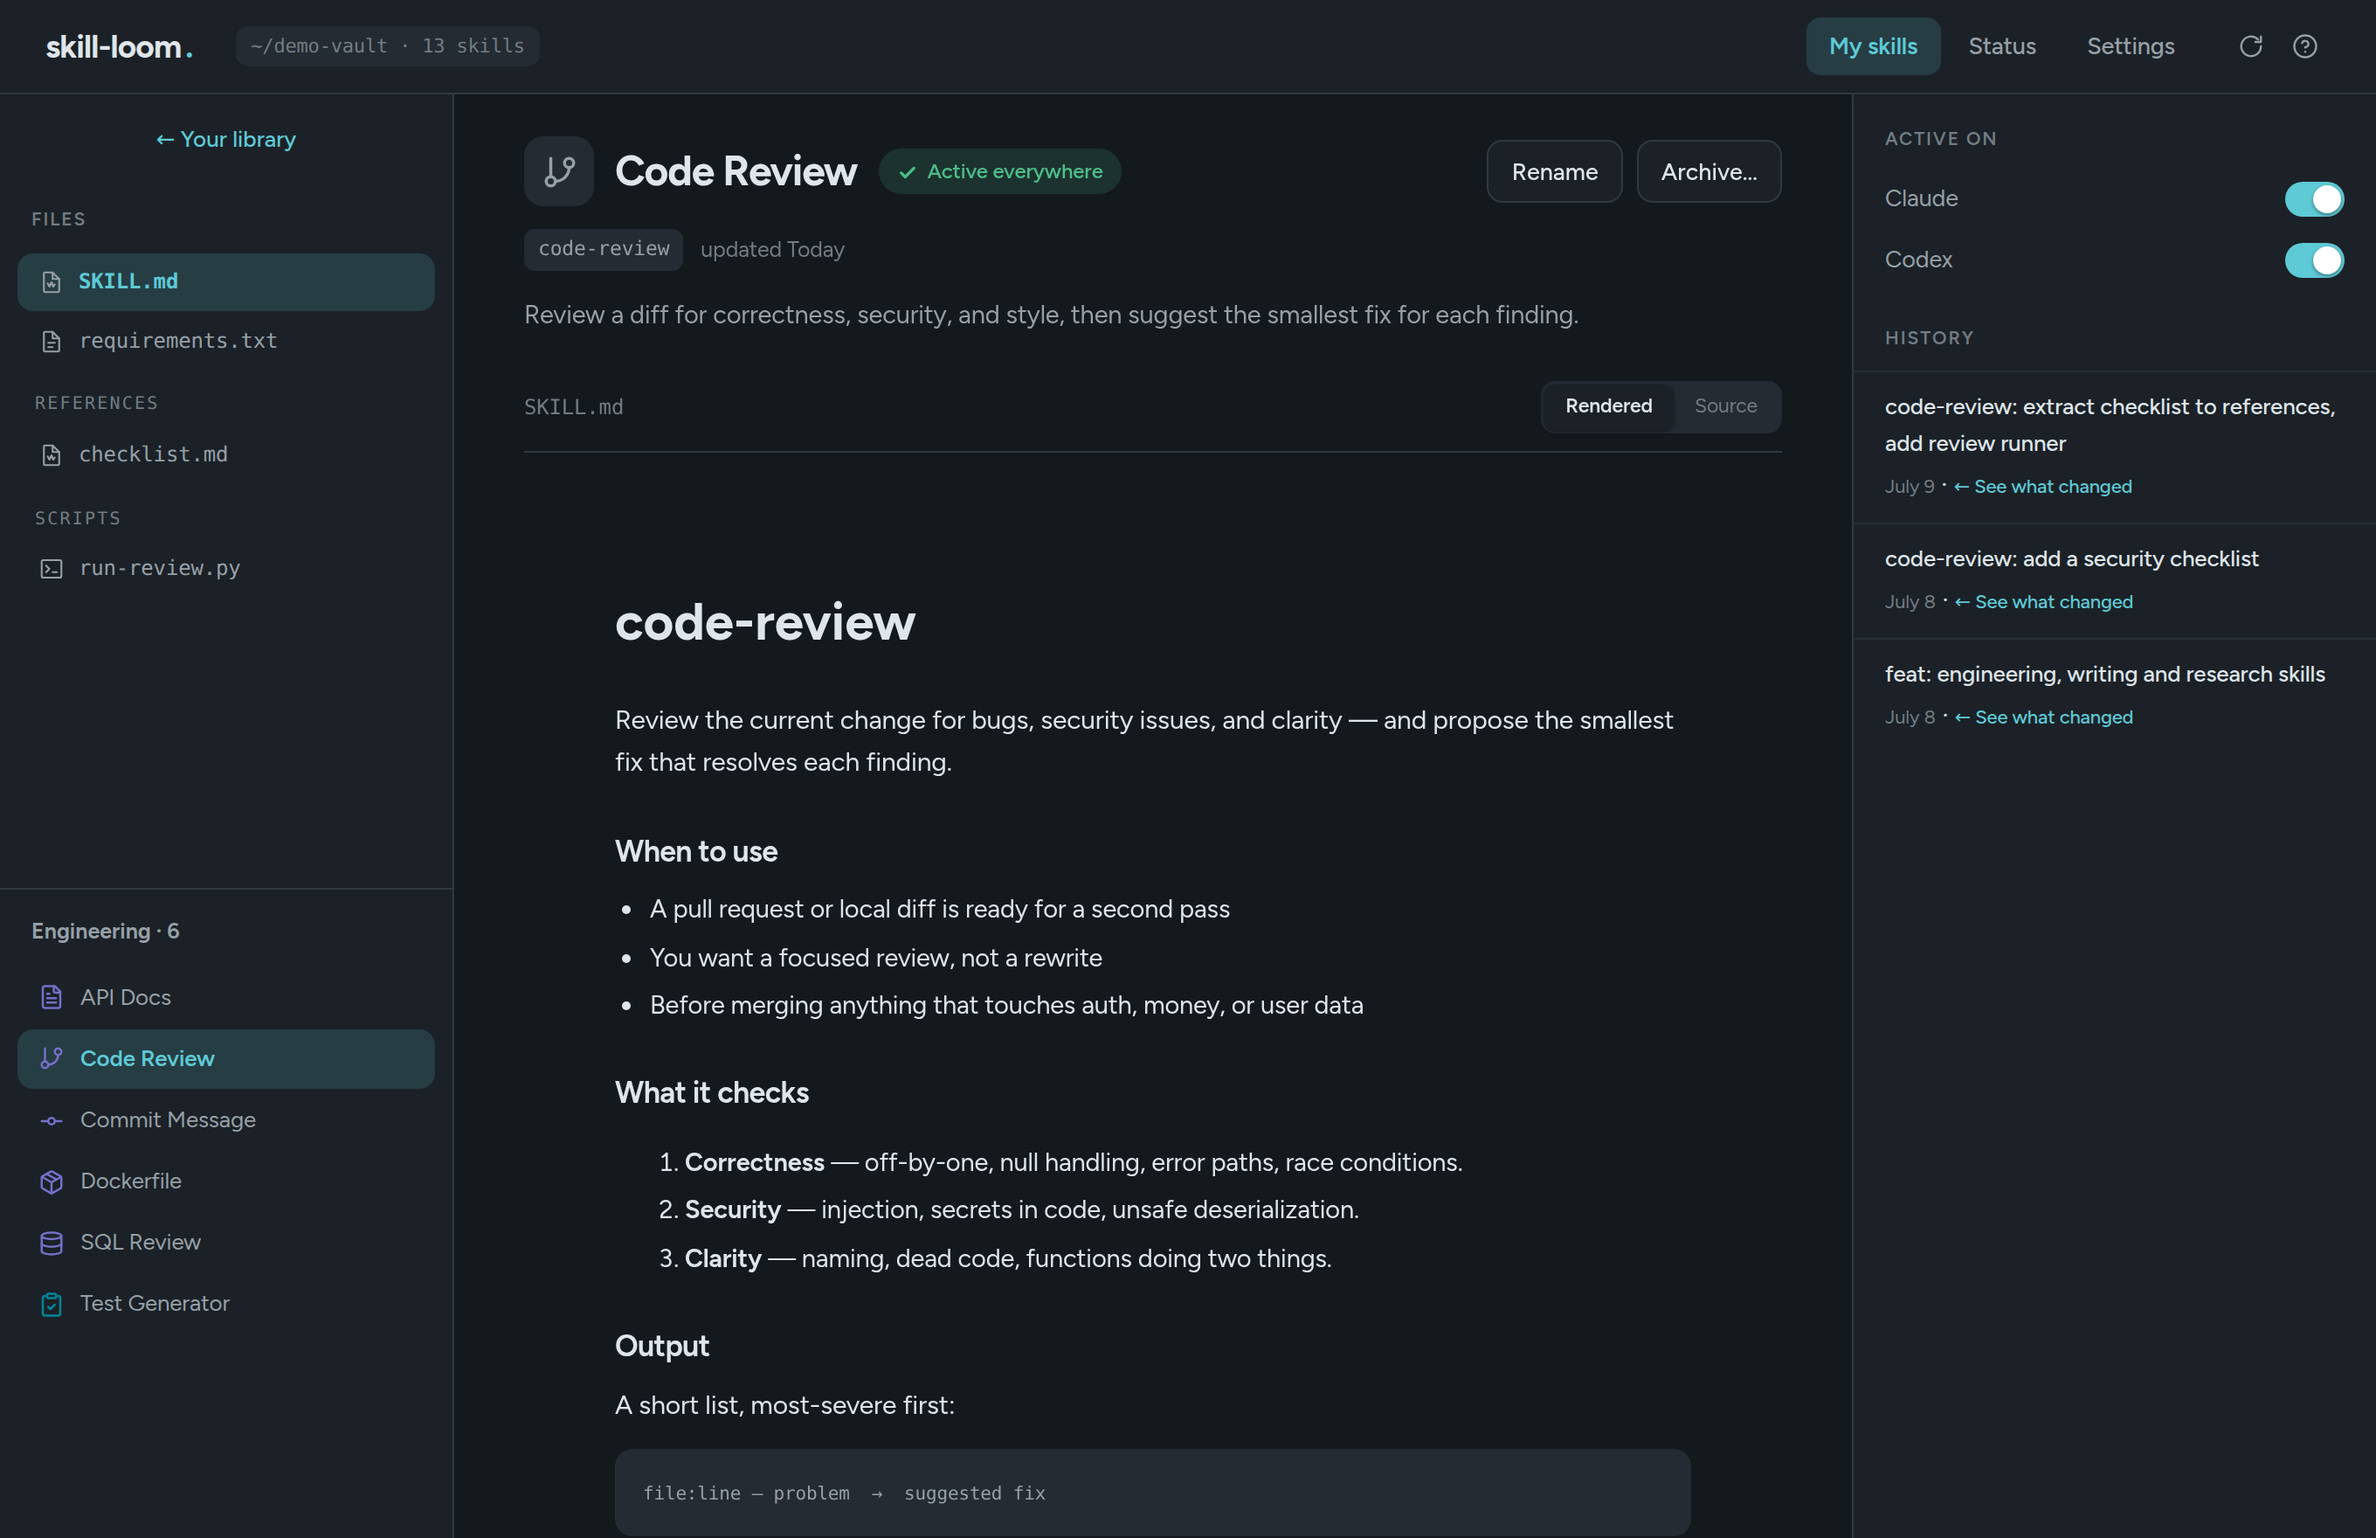
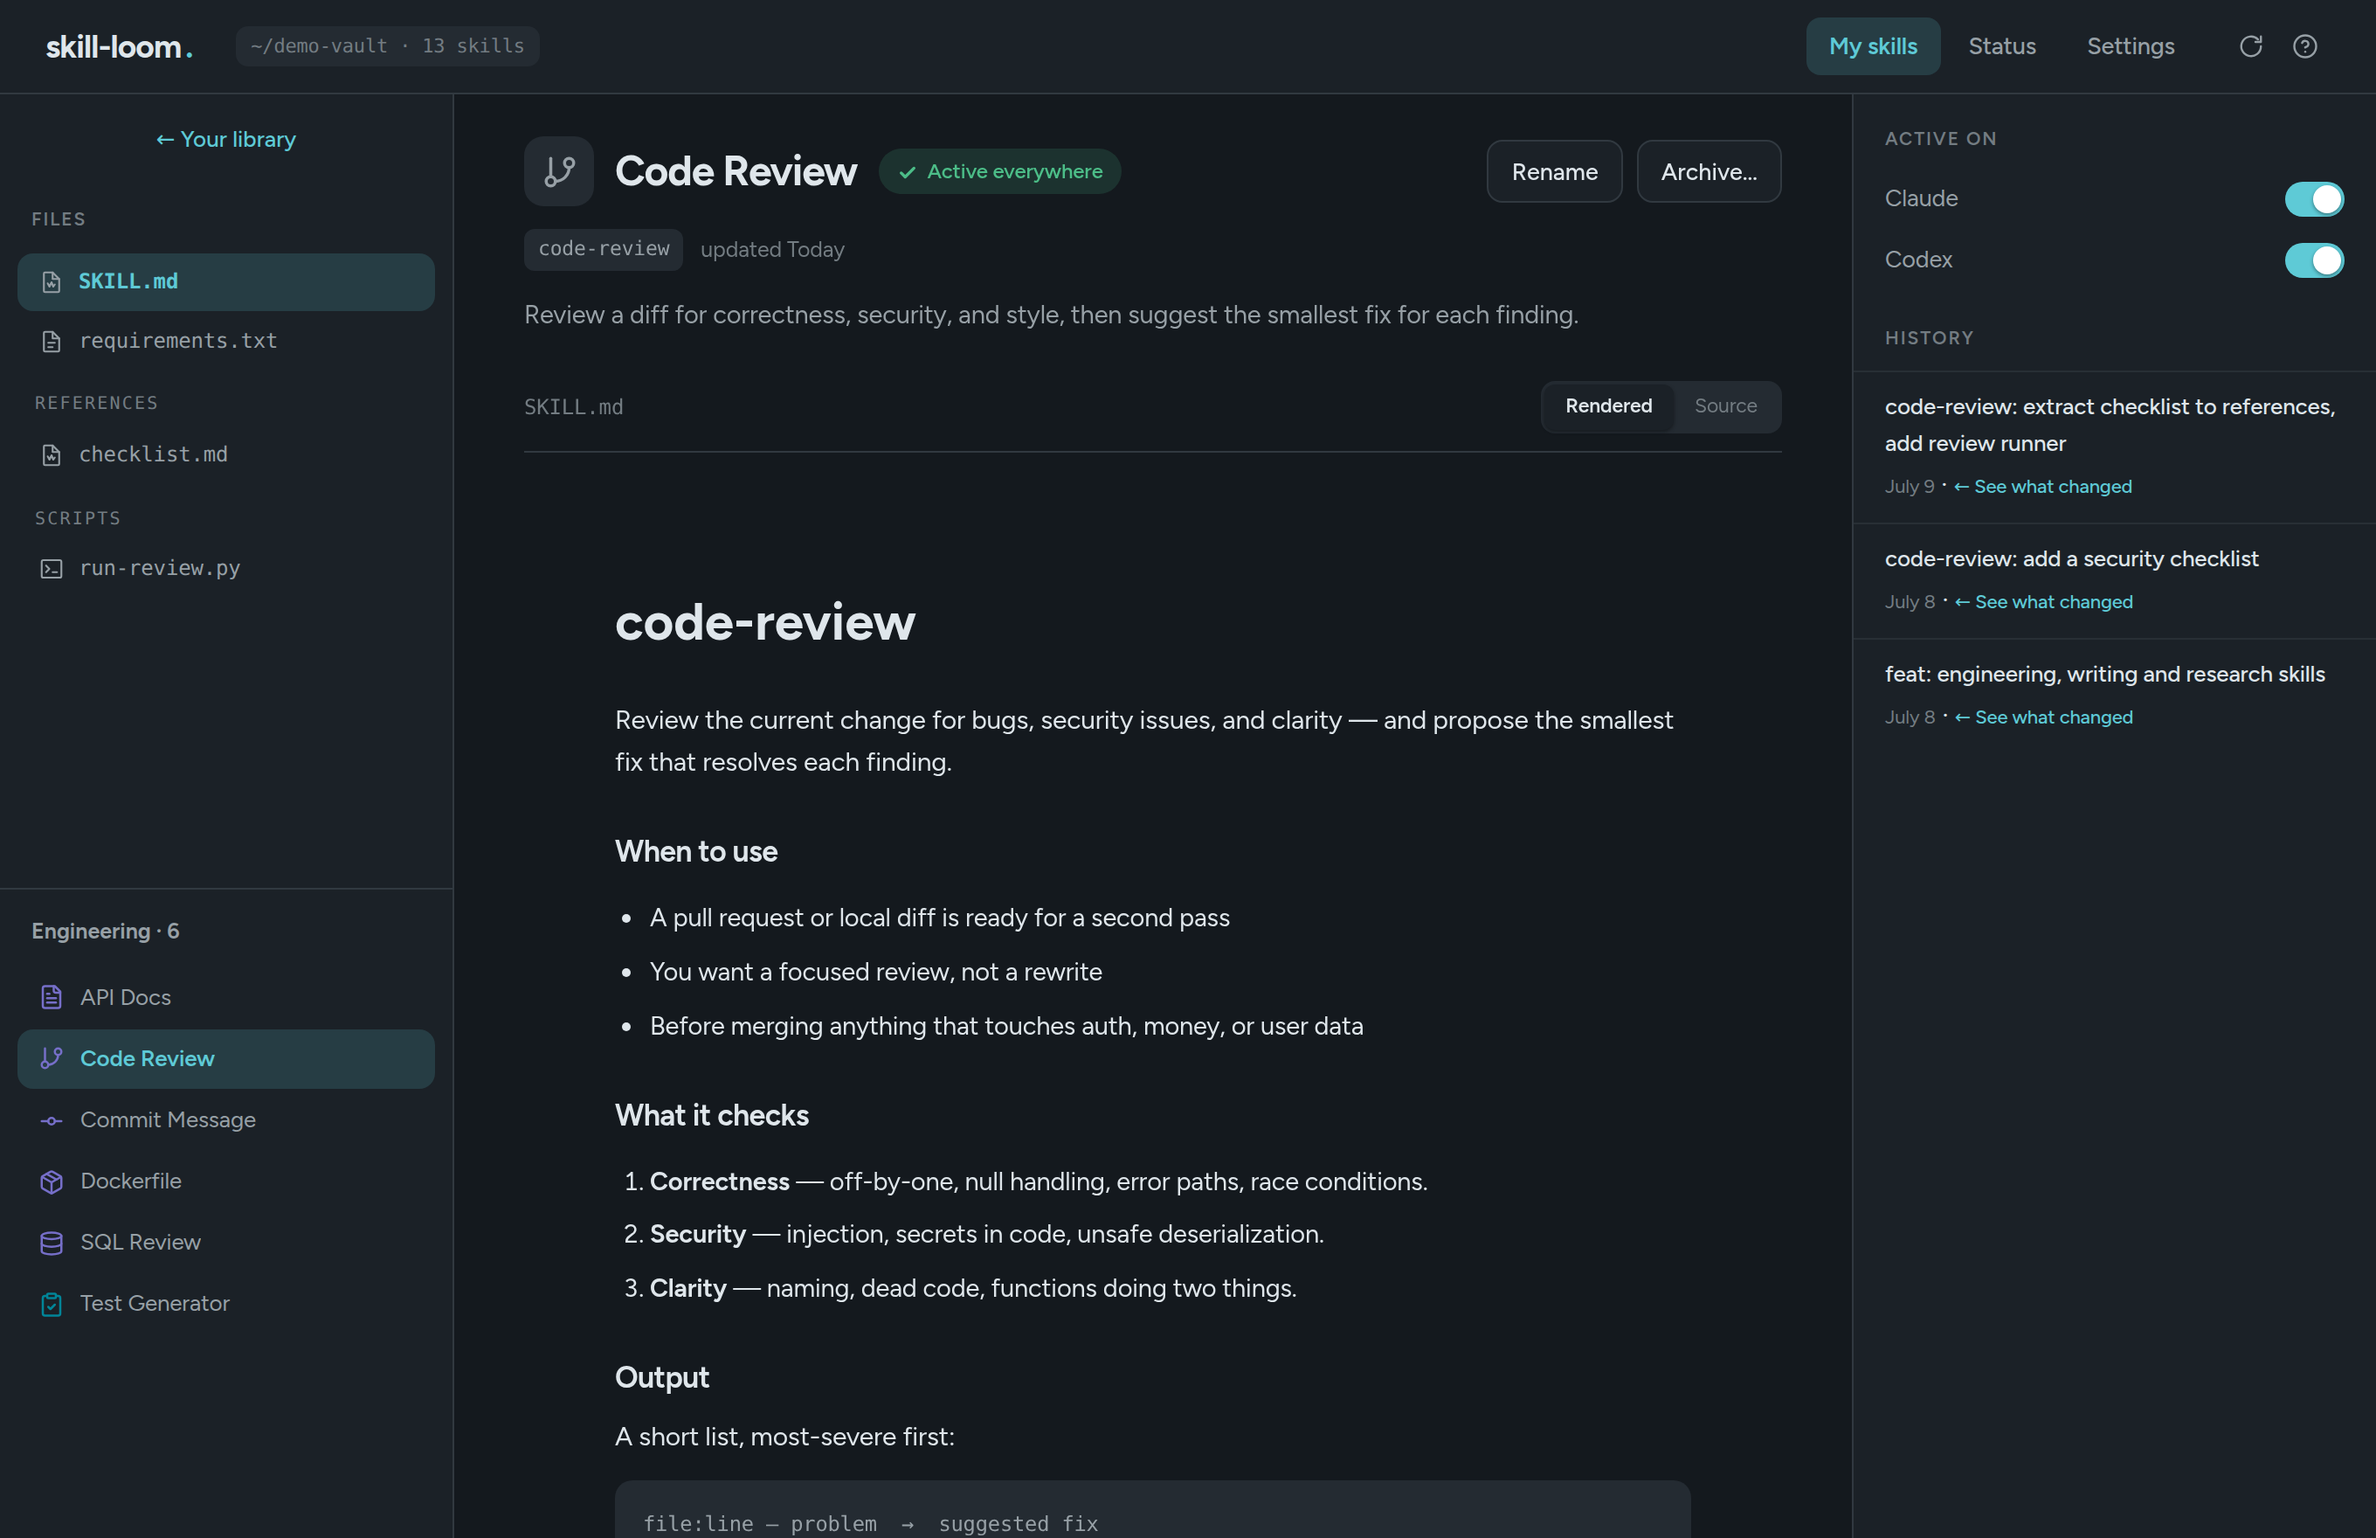
feat: markdown viewer polish
Refine the rendered skill viewer: align ordered lists and blockquotes with
bullet lists, larger inline code, real task-list checkboxes; unify prose, code,
tables and dividers to one content measure with more list/divider air; and
centre the document as a capped reading column with balanced margins. Verified
in light and dark.

Changed region(s): [[0.25, 0.5938, 0.625, 0.8438], [0.25, 0.875, 0.4062, 0.9375], [0.2812, 0.9688, 0.4375, 1.0]]

diff --git a/src/ui.html b/src/ui.html
@@ -722,6 +722,10 @@
         padding: 30px 52px 60px;
         overflow-y: auto;
         min-width: 0;
+        /* One shared content measure so prose, code blocks, tables and dividers
+           all share the same right edge. Fills the document column (no dead
+           space); tune this single value to cap the reading width if desired. */
+        --measure: 100%;
       }
       /* Refined scrollbars, consistent across every scroll surface (window +
          detail columns + status panes): subtle at rest (never disappears when
@@ -931,7 +935,7 @@
         font-size: 16.5px;
         line-height: 1.6;
         margin: 0 0 8px;
-        max-width: 74ch;
+        max-width: var(--measure);
       }
       .md h2 {
         font-size: 17px;
@@ -948,7 +952,7 @@
         font-size: 15px;
         line-height: 1.64;
         margin: 0.5em 0;
-        max-width: 74ch;
+        max-width: var(--measure);
       }
       .md strong {
         font-weight: 650;
@@ -958,7 +962,7 @@
       }
       .md code {
         font-family: var(--mono);
-        font-size: 0.84em;
+        font-size: 0.95em;
         background: var(--panel);
         padding: 1px 6px;
         border-radius: 5px;
@@ -972,7 +976,7 @@
         overflow-x: auto;
         line-height: 1.7;
         color: var(--dim);
-        max-width: 900px;
+        max-width: var(--measure);
       }
       .md pre code {
         background: none;
@@ -981,7 +985,7 @@
       .md table {
         border-collapse: collapse;
         width: 100%;
-        max-width: 980px;
+        max-width: var(--measure);
         margin: 1.1em 0;
         font-size: 13.5px;
       }
@@ -1002,14 +1006,61 @@
       .md td code {
         font-size: 11.5px;
       }
-      .md ul {
+      .md ul,
+      .md ol {
         padding-left: 20px;
-        margin: 0.5em 0;
-        max-width: 74ch;
+        margin: 0.9em 0;
+        max-width: var(--measure);
       }
       .md li {
         font-size: 14.5px;
-        margin: 0.35em 0;
+        line-height: 1.62;
+        margin: 0.5em 0;
+      }
+      /* Blockquotes align to the same indent as lists (no side-stripe border),
+         set apart by muted colour only. */
+      .md blockquote {
+        margin: 0.6em 0;
+        padding-left: 20px;
+        max-width: var(--measure);
+        color: var(--dim);
+      }
+      /* Divider: matches the shared measure, with generous vertical breathing room */
+      .md hr {
+        max-width: var(--measure);
+        margin: 2em 0;
+        border: 0;
+        border-top: 1px solid var(--line);
+      }
+      /* Task-list items: real checkbox in the list gutter instead of literal [ ] */
+      .md li.task {
+        list-style: none;
+        position: relative;
+      }
+      .md li.task::before {
+        content: "";
+        position: absolute;
+        left: -20px;
+        top: 0.3em;
+        width: 12px;
+        height: 12px;
+        border: 1.5px solid var(--line);
+        border-radius: 3.5px;
+      }
+      .md li.task.done::before {
+        border-color: var(--accent);
+        background: var(--accent-soft);
+      }
+      .md li.task.done::after {
+        content: "";
+        position: absolute;
+        left: -15px;
+        top: 0.42em;
+        width: 4px;
+        height: 7px;
+        border: solid var(--accent);
+        border-width: 0 1.5px 1.5px 0;
+        transform: rotate(45deg);
       }
 
       /* ── health ─────────────────────────────────────────────────────────── */
@@ -1578,6 +1629,18 @@
         overflow-y: auto;
         padding: 24px 40px 60px;
         min-width: 0;
+      }
+      /* Skill-detail document: centre it as one readable column (title, viewerbar
+         and body together) with balanced margins that grow with the pane, capped
+         at ~56rem so lines stay readable on wide monitors. */
+      .doc.review {
+        padding: 24px max(40px, calc(50% - 28rem)) 60px;
+      }
+      /* Body fills the centred column and aligns with the header (drop the
+         article's own side inset). */
+      #viewer .md {
+        padding-left: 0;
+        padding-right: 0;
       }
       .rvhead {
         display: flex;
@@ -3782,7 +3845,13 @@
               html += `<${want}>`;
               inList = want;
             }
-            html += `<li>${inline((ul ?? ol)[1])}</li>`;
+            const item = (ul ?? ol)[1];
+            const task = ul && /^\[([ xX])\]\s+(.*)$/.exec(item);
+            if (task) {
+              html += `<li class="task${task[1].toLowerCase() === "x" ? " done" : ""}">${inline(task[2])}</li>`;
+            } else {
+              html += `<li>${inline(item)}</li>`;
+            }
             continue;
           }
           if (/^\s*&gt;\s?/.test(line)) {
